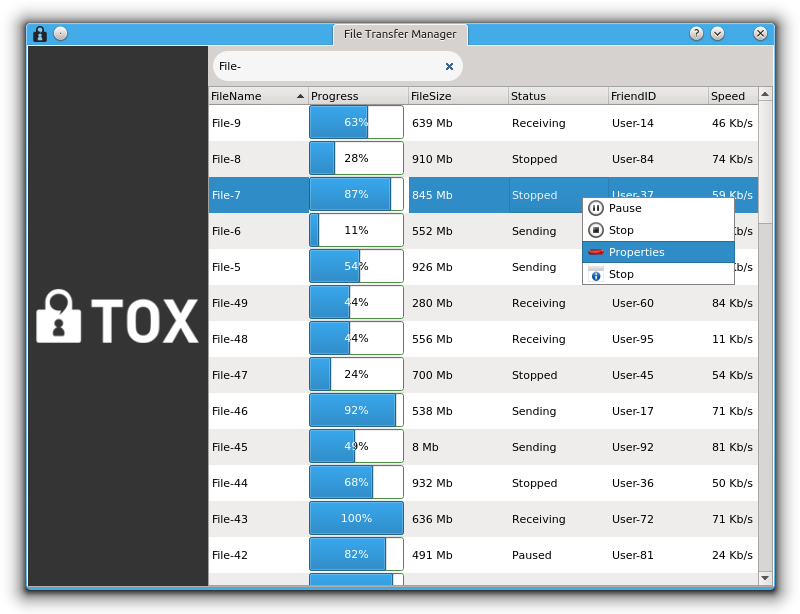
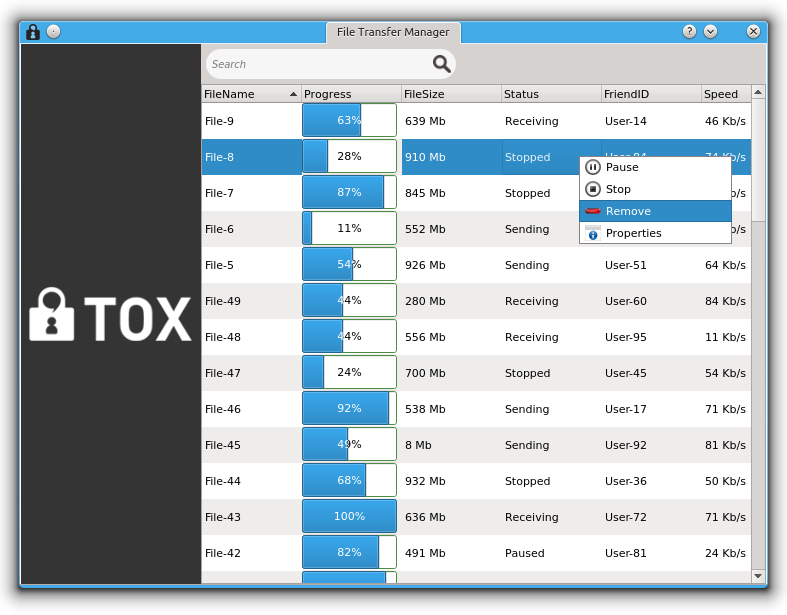
Code cleanup

diff --git a/filetransfer.cpp b/filetransfer.cpp
@@ -10,13 +10,8 @@
 
 void filetransfer::onFileTransferContextMenuRequested(const QPoint &pos)
 {
-
     QPoint globalPos = ui->fileView->viewport()->mapToGlobal(pos);
     globalPos.setX(globalPos.x() + 1);
-    /*QModelIndexList selectedIndexes = ui->fileView->selectedItems();
-    if (selectedIndexes.size() != 1) {
-        return;
-    }*/
     fileTransferContextMenu->exec(globalPos);
 }
 
@@ -53,10 +48,10 @@ filetransfer::filetransfer(QWidget *parent) :
     QAction* stopAction = new QAction(QIcon(":/icons/stop.png"), "Stop", this);
     connect(stopAction, &QAction::triggered, this, &filetransfer::onStopActionTriggered);
 
-    QAction* propertiesAction = new QAction(QIcon(":/icons/info.png"), "Stop", this);
+    QAction* propertiesAction = new QAction(QIcon(":/icons/info.png"), "Properties", this);
     connect(propertiesAction, &QAction::triggered, this, &filetransfer::onPropertiesActionTriggered);
 
-    QAction* removeAction = new QAction(QIcon(":/icons/remove.png"), "Properties", this);
+    QAction* removeAction = new QAction(QIcon(":/icons/remove.png"), "Remove", this);
     connect(removeAction, &QAction::triggered, this, &filetransfer::onRemoveActionTriggered);
 
     fileTransferContextMenu = new QMenu(this);
@@ -97,24 +92,18 @@ filetransfer::filetransfer(QWidget *parent) :
     ui->fileView->setContextMenuPolicy(Qt::CustomContextMenu);
     connect(ui->fileView, &QTreeWidget::customContextMenuRequested, this, &filetransfer::onFileTransferContextMenuRequested);
 
-    int High = 100;
-    int Low = 10;
-    int fileHigh = 1000000;
-    int fileLow = 1;
-    int randValue;
-    int fileRandSize;
-    int speedRand;
-    int statusHigh = 4;
-    int statusLow = 1;
-    int statusRand;
-    QString status;
-    QString fileSize;
-    QString speed;
+
+    int fileHigh = 1000000, fileLow = 1;
+    int speedRand, statusRand;
+    int fileRandSize, randValue;
+    int statusHigh = 4, High = 100;
+    int statusLow = 1, Low = 10;
+    QString status, fileSize, speed;
+
     ui->fileView->setHeaderLabels(QStringList() << "FileName" << "Progress" << "FileSize" << "Status" << "FriendID" << "Speed");
     for (int i = 0; i < 50; ++i)
     {
-        randValue = (qrand() % ((High + 1) - Low) + Low);
-        speedRand = (qrand() % ((High + 1) - Low) + Low);
+        speedRand = randValue = (qrand() % ((High + 1) - Low) + Low);
         statusRand = (qrand() % ((statusHigh + 1) - statusLow) + statusLow);
         speed = QString::number(speedRand);
         speed += " Kb/s";
